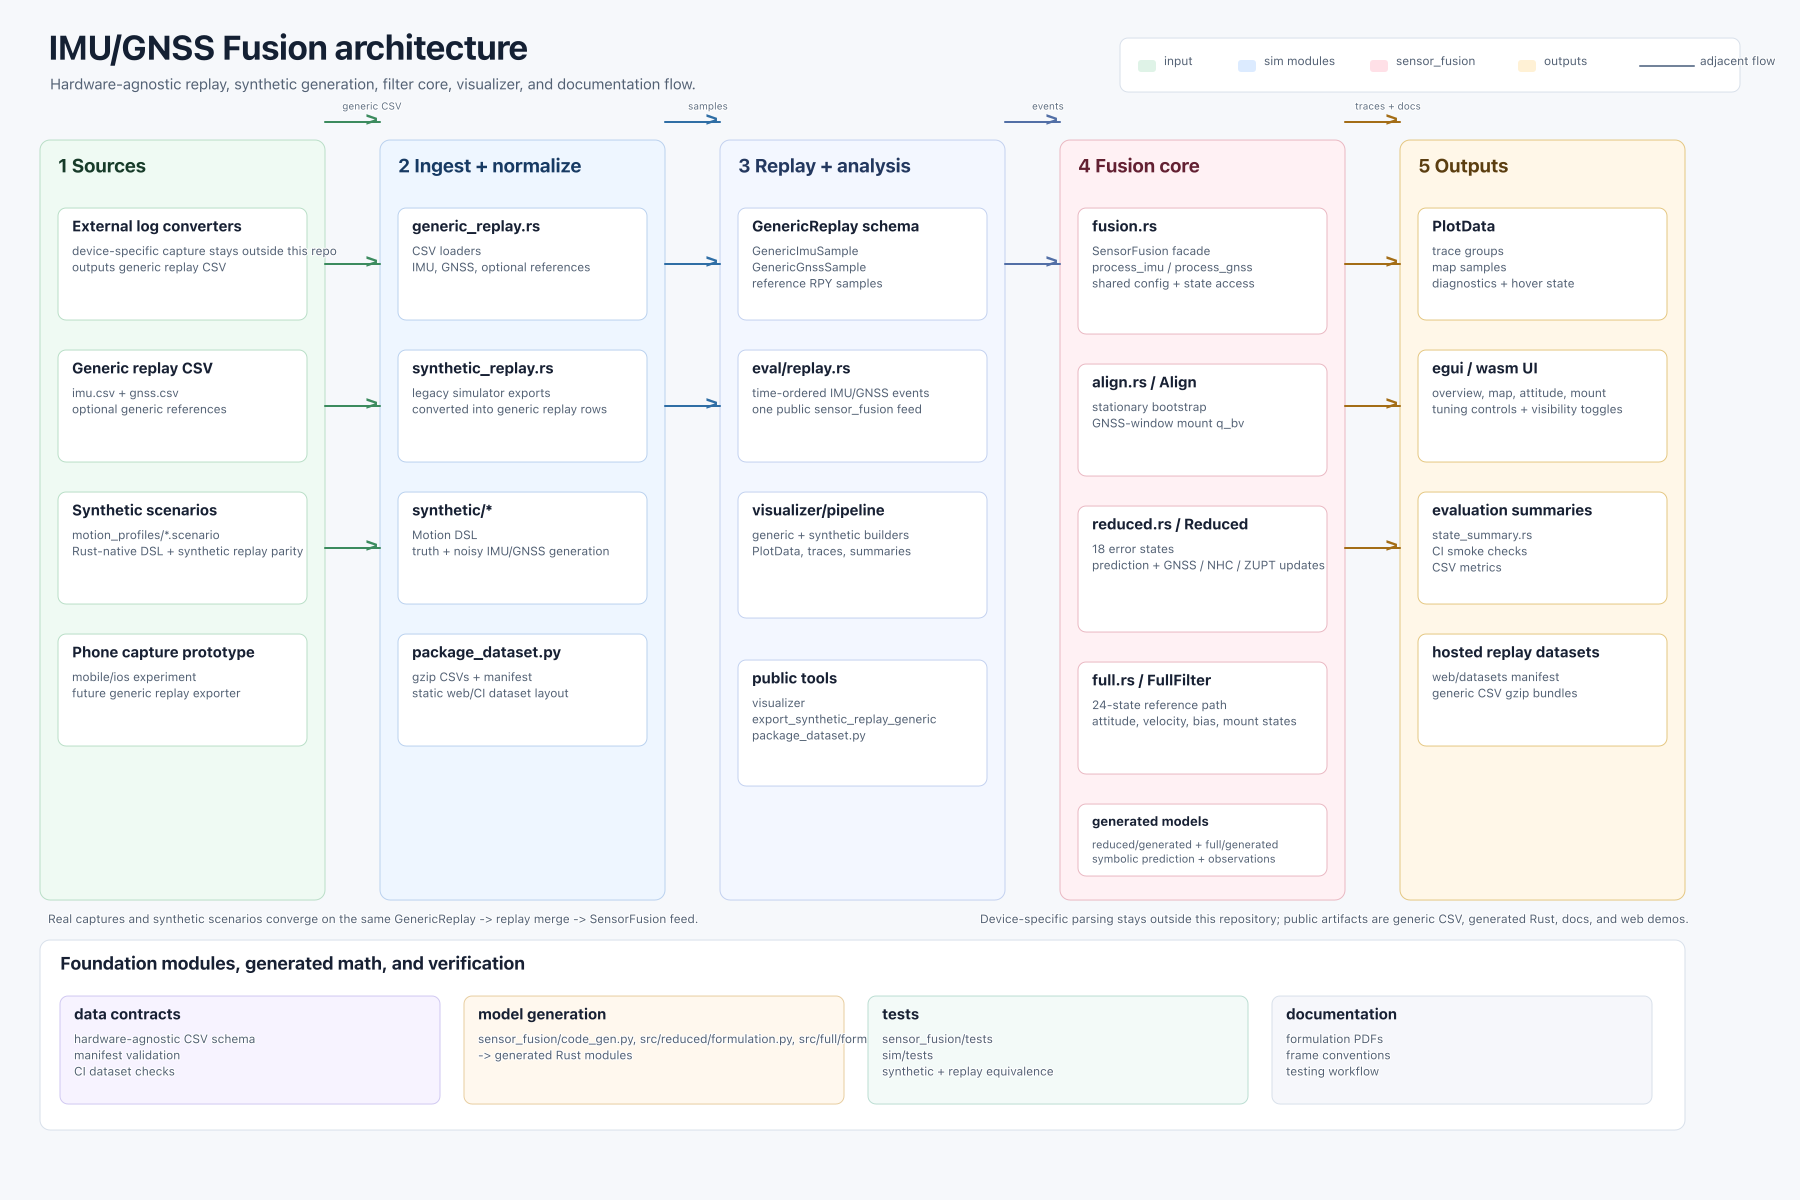
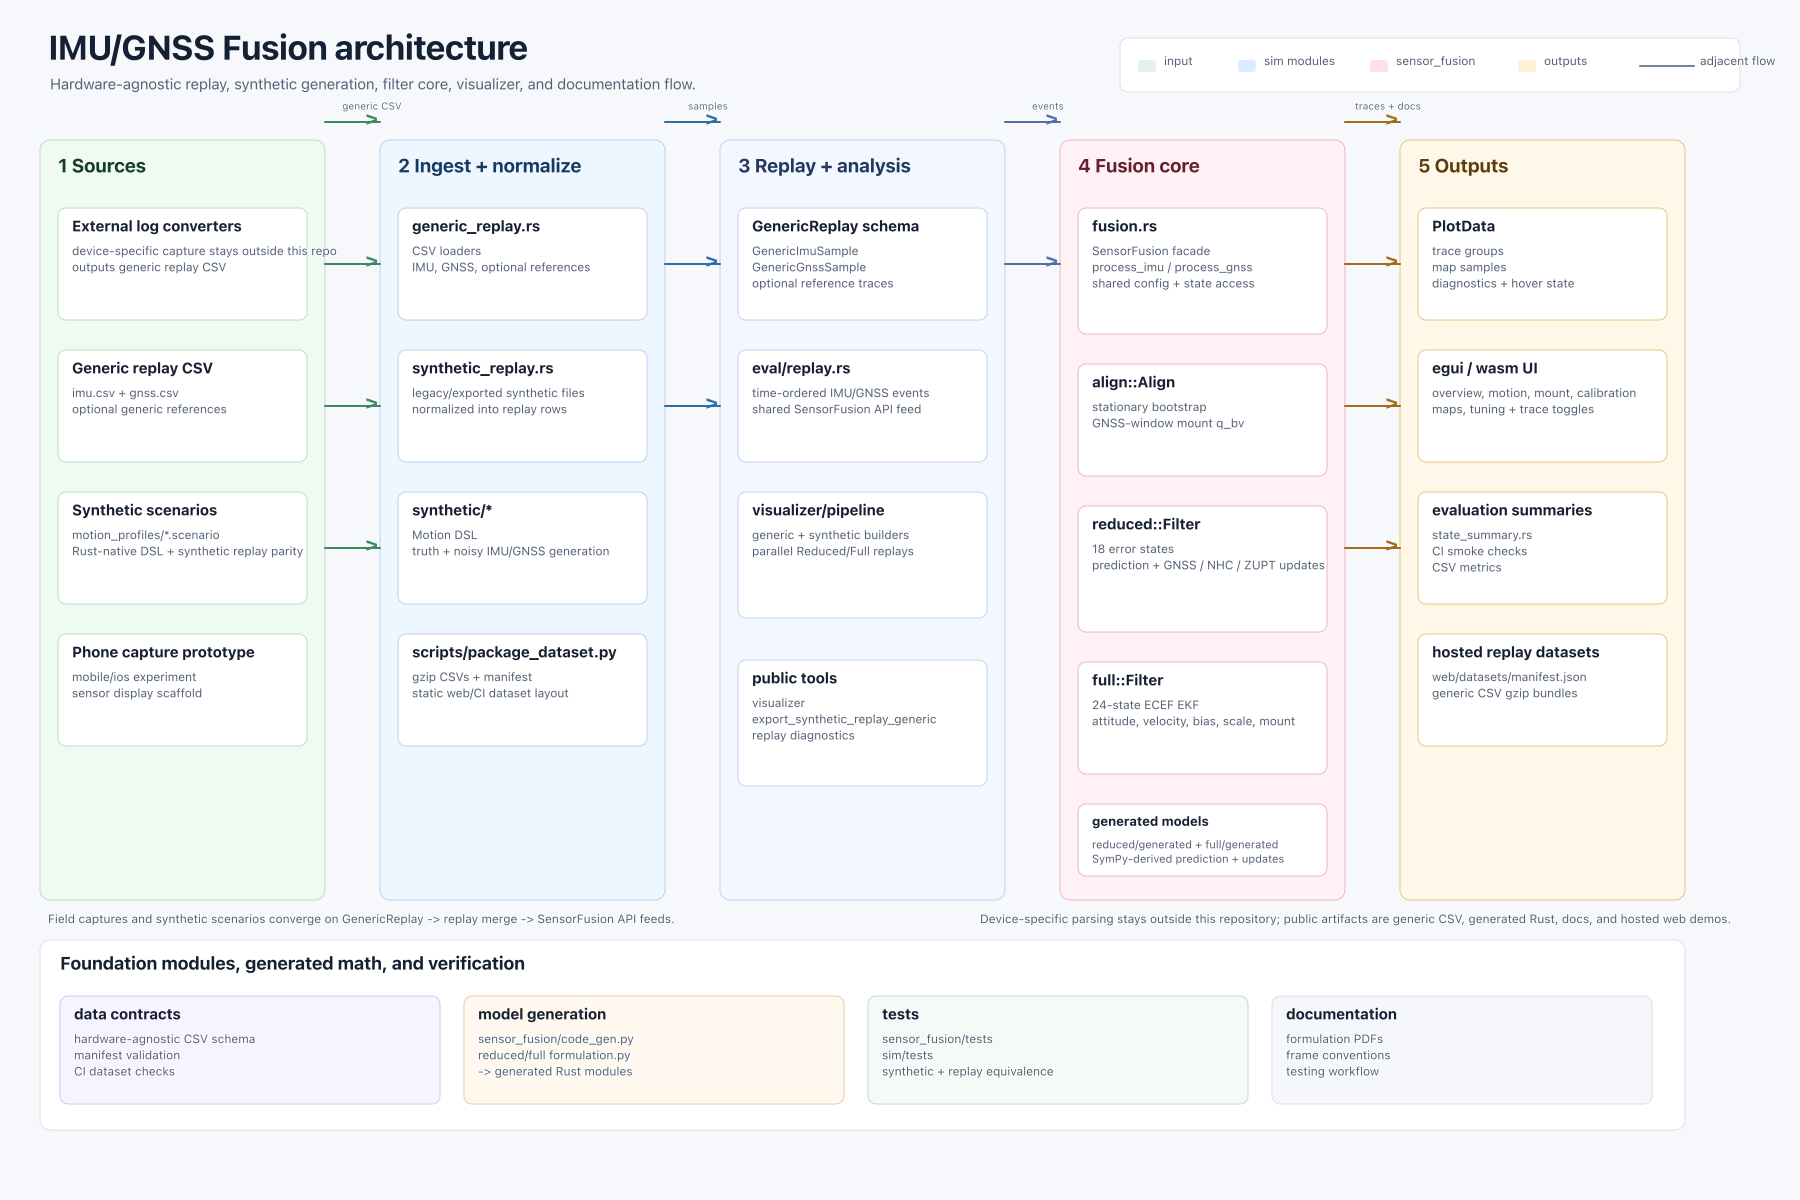
Refresh architecture diagram

diff --git a/README.md b/README.md
@@ -129,7 +129,7 @@ reference pages are:
 ![Architecture overview](docs/assets/architecture.png)
 
 The editable source for this diagram is [arch.pen](arch.pen). The exported
-screenshot above is checked in so the architecture stays visible on GitHub
+diagram asset above is checked in so the architecture stays visible on GitHub
 without requiring Pencil.
 
 The main replay path is:
@@ -137,8 +137,8 @@ The main replay path is:
 1. Data enters as hardware-agnostic `imu.csv` and `gnss.csv`, or as a synthetic scenario generated inside `sim`.
 2. `sim::datasets` converts CSV rows into timestamped IMU/GNSS samples.
 3. `sim::eval::replay` merges IMU and GNSS events in a consistent time order.
-4. `sensor_fusion` runs Align plus the Reduced and Full EKF implementations.
-5. `sim::visualizer` displays traces, map data, mount states, diagnostics, and summary statistics.
+4. `sensor_fusion` runs Align plus the configured Reduced or Full EKF.
+5. `sim::visualizer` compares Reduced and Full through separate replay passes and displays traces, map data, mount states, diagnostics, and summary statistics.
 
 The runtime Rust filter code consumes generated matrix/Jacobian snippets under `sensor_fusion/src/reduced/generated/` and `sensor_fusion/src/full/generated/`. The symbolic sources live in Python so model derivation stays reviewable while generated Rust stays fast and dependency-light.
 